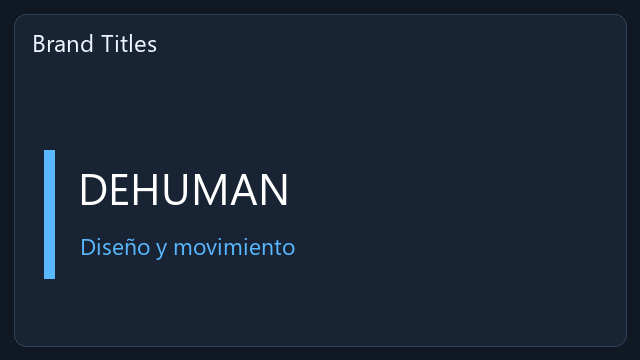
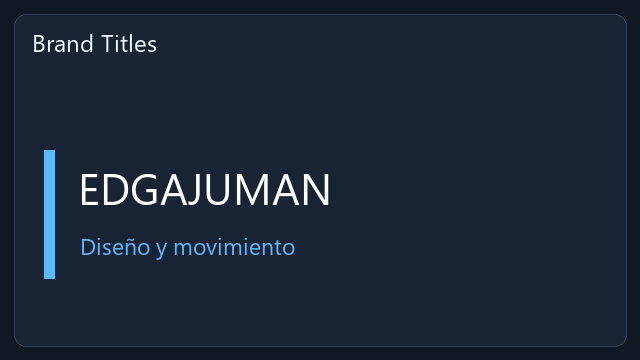
Refresh edgajuman widget branding and versioned example links

Changed region(s): [[0.125, 0.4583, 0.5312, 0.5806]]

diff --git a/index.html b/index.html
@@ -1,10 +1,10 @@
 <!doctype html><html lang="es"><meta charset="utf-8"><meta name="viewport" content="width=device-width,initial-scale=1"><meta name="color-scheme" content="dark"><title>AK Screen · Extensiones</title><style>
 :root{--bg:#101218;--panel:#181e29;--line:#303a4d;--text:#f3f5fa;--muted:#a2aec2;--blue:#5998ff}*{box-sizing:border-box}body{margin:0;background:var(--bg);font:15px/1.6 system-ui,sans-serif;color:var(--text)}a{color:var(--blue);text-decoration:none}a:hover{text-decoration:underline}header,main,footer{max-width:1220px;margin:auto;padding:25px 32px}header{display:flex;justify-content:space-between;gap:20px;border-bottom:1px solid var(--line)}nav{display:flex;gap:22px}.brand{font-weight:750;color:white}.brand span{font-weight:400;color:var(--muted);margin-left:14px}.hero{padding:45px 0 30px;max-width:780px}.eyebrow{color:var(--blue);font-size:12px;letter-spacing:2px}.hero h1{font-size:clamp(32px,4vw,48px);line-height:1.12;letter-spacing:-1.6px}.hero p{color:var(--muted);font-size:17px}.toolbar{display:flex;gap:12px;flex-wrap:wrap;margin-bottom:25px}input,select,button{font:inherit;border:1px solid var(--line);border-radius:7px;background:#1c2330;color:var(--text);padding:9px 13px}input{width:min(400px,100%)}button{cursor:pointer}button:hover{border-color:var(--blue)}button:disabled{opacity:.5}.status{color:var(--muted);font-size:13px}.catalogue{display:grid;grid-template-columns:repeat(auto-fit,minmax(290px,1fr));gap:20px}.card{display:flex;flex-direction:column;background:var(--panel);border:1px solid var(--line);border-radius:12px;overflow:hidden}.preview{height:180px;padding:24px;background:radial-gradient(ellipse at 95% 10%,#264a7855,transparent 70%),#131720}.mock{border:1px solid #344154;border-radius:8px;background:#1d2634;padding:12px;margin:auto;font-size:12px;box-shadow:0 8px 20px #0003}.mock strong{color:#b7c6db;display:block;margin-bottom:9px}.mini{border:1px solid #385377;border-radius:4px;padding:4px 8px;display:inline-block;color:#d4e4ff;font-size:11px;margin:3px}.content{padding:21px;display:flex;flex-direction:column;flex:1}.content h2{font-size:18px;margin:0 0 4px}.author{font-size:12px;color:var(--muted)}.desc{font-size:14px;color:var(--muted);flex:1}.tags{display:flex;gap:6px;flex-wrap:wrap;margin-bottom:17px}.tag{font-size:11px;border:1px solid #354053;border-radius:5px;padding:2px 7px;color:#b4c6e0}.download{display:flex;gap:9px}.download select{max-width:125px}.download button{background:#2f74dc;font-size:13px;flex:1}details{margin-top:15px;font-size:12px;color:var(--muted)}summary{cursor:pointer;color:#c3d2e9}details p{white-space:pre-wrap}.how{display:grid;grid-template-columns:repeat(auto-fit,minmax(230px,1fr));gap:25px;margin:48px 0 28px;padding-top:24px;border-top:1px solid var(--line)}.how h3{font-size:16px}.how p,footer{color:var(--muted);font-size:13px}footer{border-top:1px solid var(--line)}@media(max-width:600px){header,main,footer{padding:20px}header{flex-direction:column}.toolbar input{width:100%}}
-.preview img{width:100%;height:100%;object-fit:cover;border-radius:6px}.examples{font-size:12px;margin-top:12px}</style><header><a class="brand" href="https://github.com/Edgajuman/AKScreen-Downloads">AK Screen <span>Extensiones</span></a><nav><a href="https://github.com/Edgajuman/AK-Screen-Extensions">Contribuir</a><a href="https://github.com/Edgajuman/AK-Screen-Extensions/tree/main/sdk">SDK</a><a href="https://github.com/Edgajuman/AK-Screen-Themes">Temas</a></nav></header><main><section class="hero"><div class="eyebrow">HERRAMIENTAS PARA TU FLUJO DE TRABAJO</div><h1>Haz espacio para tus ideas.</h1><p>Widgets persistentes, herramientas de composición y efectos. Explora la colección, elige una versión y añádela a AK Screen.</p></section><div class="toolbar"><input id="search" type="search" aria-label="Buscar extensiones" placeholder="Buscar por nombre, función o autor…"><select id="type" aria-label="Filtrar por tipo"><option value="all">Todos los tipos</option><option value="widget">Widgets</option><option value="tool">Herramientas</option><option value="render">Efectos</option><option value="network">Con conexión</option></select><span id="status" class="status" role="status">Verificando catálogo…</span></div><section id="catalogue" class="catalogue" aria-label="Extensiones disponibles"></section><section class="how"><div><h3>Instala desde el editor</h3><p>En AK Screen 2.4: <b>Herramientas → Extensiones → Actualizar catálogo</b>. Revisa los permisos antes de activar cada paquete.</p></div><div><h3>Versiones y datos separados</h3><p>Actualizar o desinstalar conserva tus notas, chats y ajustes. Puedes elegir versiones anteriores desde el catálogo.</p></div><div><h3>Construye tu extensión</h3><p>Haz un fork, utiliza el SDK declarativo o WebAssembly y envía un pull request. Solo las versiones revisadas aparecen en el catálogo firmado.</p></div></section></main><footer>MIT · dehuman / Edgajuman. Vistas previas esquemáticas de los widgets. El aislamiento y las firmas reducen riesgos y requieren revisión de código.</footer><script type="module">
+.preview img{width:100%;height:100%;object-fit:cover;border-radius:6px}.examples{font-size:12px;margin-top:12px}</style><header><a class="brand" href="https://github.com/Edgajuman/AKScreen-Downloads">AK Screen <span>Extensiones</span></a><nav><a href="https://github.com/Edgajuman/AK-Screen-Extensions">Contribuir</a><a href="https://github.com/Edgajuman/AK-Screen-Extensions/tree/main/sdk">SDK</a><a href="https://github.com/Edgajuman/AK-Screen-Themes">Temas</a></nav></header><main><section class="hero"><div class="eyebrow">HERRAMIENTAS PARA TU FLUJO DE TRABAJO</div><h1>Haz espacio para tus ideas.</h1><p>Widgets persistentes, herramientas de composición y efectos. Explora la colección, elige una versión y añádela a AK Screen.</p></section><div class="toolbar"><input id="search" type="search" aria-label="Buscar extensiones" placeholder="Buscar por nombre, función o autor…"><select id="type" aria-label="Filtrar por tipo"><option value="all">Todos los tipos</option><option value="widget">Widgets</option><option value="tool">Herramientas</option><option value="render">Efectos</option><option value="network">Con conexión</option></select><span id="status" class="status" role="status">Verificando catálogo…</span></div><section id="catalogue" class="catalogue" aria-label="Extensiones disponibles"></section><section class="how"><div><h3>Instala desde el editor</h3><p>En AK Screen 2.4: <b>Herramientas → Extensiones → Actualizar catálogo</b>. Revisa los permisos antes de activar cada paquete.</p></div><div><h3>Versiones y datos separados</h3><p>Actualizar o desinstalar conserva tus notas, chats y ajustes. Puedes elegir versiones anteriores desde el catálogo.</p></div><div><h3>Construye tu extensión</h3><p>Haz un fork, utiliza el SDK declarativo o WebAssembly y envía un pull request. Solo las versiones revisadas aparecen en el catálogo firmado.</p></div></section></main><footer>MIT · edgajuman / Edgajuman. Vistas previas esquemáticas de los widgets. El aislamiento y las firmas reducen riesgos y requieren revisión de código.</footer><script type="module">
 const $=s=>document.querySelector(s),status=$('#status'),grid=$('#catalogue'),enc=new TextEncoder(),hex=s=>Uint8Array.from(s.match(/../g)||[],x=>parseInt(x,16));let releases=[];
 const el=(tag,text,cls)=>{const n=document.createElement(tag);if(text)n.textContent=text;if(cls)n.className=cls;return n;};
 const order=(a,b)=>{const av=a.manifest.version.split(/[.-]/),bv=b.manifest.version.split(/[.-]/);for(let i=0;i<3;i++){let d=Number(bv[i])-Number(av[i]);if(d)return d;}return b.manifest.version.localeCompare(a.manifest.version);};
 function draw(){grid.replaceChildren();const q=$('#search').value.toLowerCase(),type=$('#type').value,groups=new Map();for(const r of releases){const m=r.manifest,p=m.permissions||{};if(!(m.name+' '+m.description+' '+m.author).toLowerCase().includes(q))continue;if(type==='widget'&&!m.widgets?.length||type==='tool'&&!m.actions?.length||type==='render'&&!p.render||type==='network'&&!p.network?.length)continue;const list=groups.get(m.id)||[];list.push(r);groups.set(m.id,list);}
-for(const items of groups.values()){items.sort(order);let chosen=items[0];const m=chosen.manifest,p=m.permissions||{},card=el('article',null,'card'),preview=el('div',null,'preview'),mock=el('div',null,'mock');mock.append(el('strong',m.widgets?.[0]?.title||m.name));for(const c of (m.widgets?.[0]?.controls||[]).slice(0,3))mock.append(el('span',c.kind==='checkbox'?'□ '+c.label:c.label,'mini'));const slug=m.id.split('.').pop(),thumb=el('img');thumb.src='./previews/'+slug+'.png';thumb.alt='Vista ilustrativa de '+m.name;thumb.loading='lazy';thumb.onerror=()=>{thumb.remove();preview.append(mock);};preview.append(thumb);card.append(preview);const content=el('div',null,'content');content.append(el('h2',m.name),el('div',m.author+' · '+m.license,'author'),el('p',m.description,'desc'));const tags=el('div',null,'tags');for(const t of [m.widgets?.length?'Widget':null,m.component?'WebAssembly':'Declarativa',p.project_edit?'Edición':null,p.render?'Render':null,p.network?.length?'Red con permiso':'Sin red'])if(t)tags.append(el('span',t,'tag'));content.append(tags);const row=el('div',null,'download'),select=el('select');select.setAttribute('aria-label','Versión de '+m.name);for(const r of items){const o=el('option',r.manifest.version);o.value=r.manifest.version;select.append(o);}const changes=el('p',m.changelog||'Sin notas adicionales.');select.onchange=()=>{chosen=items.find(r=>r.manifest.version===select.value);changes.textContent=chosen.manifest.changelog||'Sin notas adicionales.';const v=chosen.manifest;compatibility.textContent='AK Screen '+(v.min_app||'2.3.0')+' o posterior';examples.href='https://github.com/Edgajuman/AK-Screen-Extensions/tree/main/extensions/'+(v.author==='dehuman'?'dehuman':'edgajuman')+'/'+v.id.split('.').pop()+'/'+v.version;};const button=el('button','Descargar .akext');button.onclick=async()=>{button.disabled=true;button.textContent='Verificando…';try{const u=new URL(chosen.url);if(u.origin!==location.origin||!u.pathname.startsWith('/AK-Screen-Extensions/packages/'))throw Error('Origen no autorizado');const r=await fetch(chosen.url);if(!r.ok)throw Error('Descarga no disponible');const data=await r.arrayBuffer();if(data.byteLength!==chosen.size||data.byteLength>67108864)throw Error('Tamaño incorrecto');const digest=Array.from(new Uint8Array(await crypto.subtle.digest('SHA-256',data)),b=>b.toString(16).padStart(2,'0')).join('');if(digest!==chosen.sha256.toLowerCase())throw Error('Paquete alterado');const url=URL.createObjectURL(new Blob([data],{type:'application/zip'})),a=el('a');a.href=url;a.download=m.id+'-'+chosen.manifest.version+'.akext';a.click();setTimeout(()=>URL.revokeObjectURL(url),30000);status.textContent='Paquete verificado. En el editor: Importar .akext / ZIP.';}catch(e){status.textContent=e.message;}finally{button.disabled=false;button.textContent='Descargar .akext';}};row.append(select,button);content.append(row);const details=el('details'),compatibility=el('p','AK Screen '+(m.min_app||'2.3.0')+' o posterior');details.append(el('summary','Cambios y compatibilidad'),compatibility,changes);content.append(details);const examples=el('a','Ejemplos y componentes ↗','examples');examples.href='https://github.com/Edgajuman/AK-Screen-Extensions/tree/main/extensions/'+(m.author==='dehuman'?'dehuman':'edgajuman')+'/'+m.id.split('.').pop()+'/'+m.version;examples.target='_blank';examples.rel='noopener noreferrer';content.append(examples);card.append(content);grid.append(card);}status.textContent=groups.size+' extensiones · firma verificada';if(!groups.size)grid.append(el('p','No hay coincidencias.'));}
+for(const items of groups.values()){items.sort(order);let chosen=items[0];const m=chosen.manifest,p=m.permissions||{},card=el('article',null,'card'),preview=el('div',null,'preview'),mock=el('div',null,'mock');mock.append(el('strong',m.widgets?.[0]?.title||m.name));for(const c of (m.widgets?.[0]?.controls||[]).slice(0,3))mock.append(el('span',c.kind==='checkbox'?'□ '+c.label:c.label,'mini'));const slug=m.id.split('.').pop(),thumb=el('img');thumb.src='./previews/'+slug+'.png';thumb.alt='Vista ilustrativa de '+m.name;thumb.loading='lazy';thumb.onerror=()=>{thumb.remove();preview.append(mock);};preview.append(thumb);card.append(preview);const content=el('div',null,'content');content.append(el('h2',m.name),el('div',m.author+' · '+m.license,'author'),el('p',m.description,'desc'));const tags=el('div',null,'tags');for(const t of [m.widgets?.length?'Widget':null,m.component?'WebAssembly':'Declarativa',p.project_edit?'Edición':null,p.render?'Render':null,p.network?.length?'Red con permiso':'Sin red'])if(t)tags.append(el('span',t,'tag'));content.append(tags);const row=el('div',null,'download'),select=el('select');select.setAttribute('aria-label','Versión de '+m.name);for(const r of items){const o=el('option',r.manifest.version);o.value=r.manifest.version;select.append(o);}const changes=el('p',m.changelog||'Sin notas adicionales.');select.onchange=()=>{chosen=items.find(r=>r.manifest.version===select.value);changes.textContent=chosen.manifest.changelog||'Sin notas adicionales.';const v=chosen.manifest;compatibility.textContent='AK Screen '+(v.min_app||'2.3.0')+' o posterior';examples.href='https://github.com/Edgajuman/AK-Screen-Extensions/tree/main/extensions/'+'edgajuman'+'/'+v.id.split('.').pop()+'/'+v.version;};const button=el('button','Descargar .akext');button.onclick=async()=>{button.disabled=true;button.textContent='Verificando…';try{const u=new URL(chosen.url);if(u.origin!==location.origin||!u.pathname.startsWith('/AK-Screen-Extensions/packages/'))throw Error('Origen no autorizado');const r=await fetch(chosen.url);if(!r.ok)throw Error('Descarga no disponible');const data=await r.arrayBuffer();if(data.byteLength!==chosen.size||data.byteLength>67108864)throw Error('Tamaño incorrecto');const digest=Array.from(new Uint8Array(await crypto.subtle.digest('SHA-256',data)),b=>b.toString(16).padStart(2,'0')).join('');if(digest!==chosen.sha256.toLowerCase())throw Error('Paquete alterado');const url=URL.createObjectURL(new Blob([data],{type:'application/zip'})),a=el('a');a.href=url;a.download=m.id+'-'+chosen.manifest.version+'.akext';a.click();setTimeout(()=>URL.revokeObjectURL(url),30000);status.textContent='Paquete verificado. En el editor: Importar .akext / ZIP.';}catch(e){status.textContent=e.message;}finally{button.disabled=false;button.textContent='Descargar .akext';}};row.append(select,button);content.append(row);const details=el('details'),compatibility=el('p','AK Screen '+(m.min_app||'2.3.0')+' o posterior');details.append(el('summary','Cambios y compatibilidad'),compatibility,changes);content.append(details);const examples=el('a','Ejemplos y componentes ↗','examples');examples.href='https://github.com/Edgajuman/AK-Screen-Extensions/tree/main/extensions/'+'edgajuman'+'/'+m.id.split('.').pop()+'/'+m.version;examples.target='_blank';examples.rel='noopener noreferrer';content.append(examples);card.append(content);grid.append(card);}status.textContent=groups.size+' extensiones · firma verificada';if(!groups.size)grid.append(el('p','No hay coincidencias.'));}
[1 lines of base64/hex data omitted]
 </script></html>
